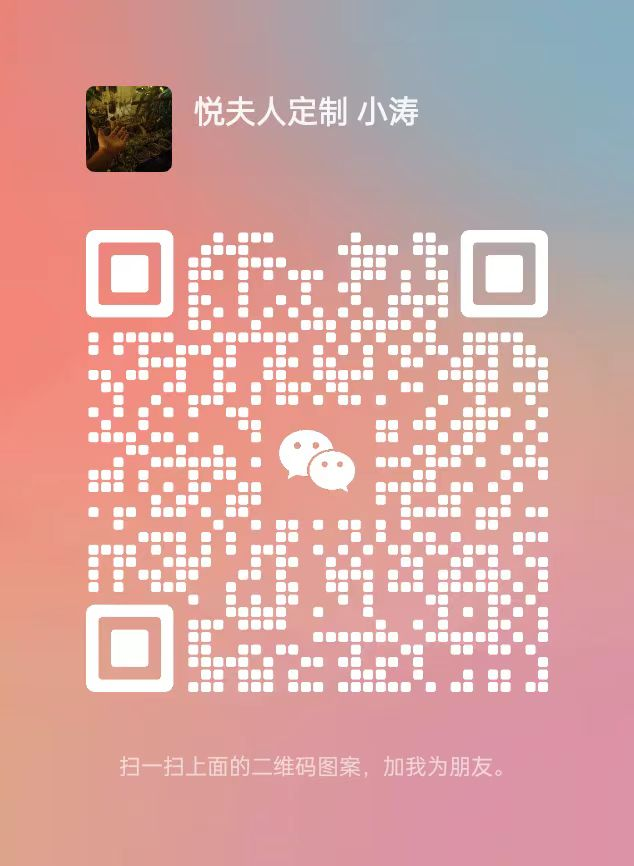
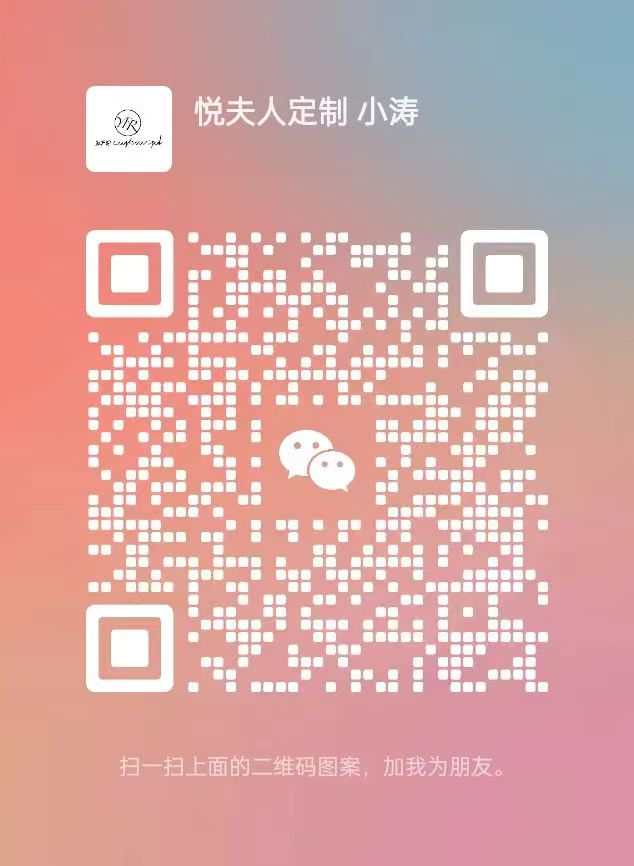
修改图片

Changed region(s): [[0.1199, 0.2494, 0.8691, 0.8106], [0.1199, 0.0935, 0.2697, 0.2182]]

diff --git a/about.html b/about.html
@@ -36,7 +36,7 @@
 </head>
 <body>
     <div class="container">
-        <h1>微信号: MRS13149100</h1>
+        <h1>微信号: YFR1898151</h1>
         <img src="images/weixin_new.jpg" alt="图片描述">
         <p>联系客服，选择心仪的款式吧</p>
     </div>
